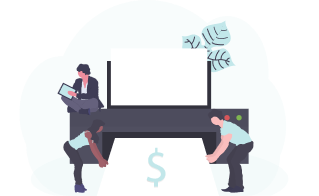
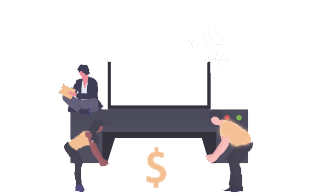
continuacion de cambios de colores y assets

diff --git a/lib/config/theme/custom_theme_extension.dart b/lib/config/theme/custom_theme_extension.dart
@@ -10,47 +10,45 @@ extension ExtendTheme on BuildContext {
 
 class CustomThemeExtension extends ThemeExtension<CustomThemeExtension> {
   final Color? backgroundColor;
+  final Color? primaryColor;
   final Color? backgroundActiveBullet;
-  final Color? textColor;
-  final Color? textSecondary;
+  final Color? textBase;
   final Color? textGray;
   final Color? textError;
 
   const CustomThemeExtension({
     this.backgroundColor,
+    this.primaryColor,
     this.backgroundActiveBullet,
-    this.textColor,
-    this.textSecondary,
+    this.textBase,
     this.textGray,
     this.textError,
   });
 
   static const lightMode = CustomThemeExtension(
     backgroundColor: Coolors.light,
-    backgroundActiveBullet: Coolors.accent,
-    textColor: Coolors.dark,
-    textSecondary: Coolors.primary,
+    backgroundActiveBullet: Coolors.dark,
+    primaryColor: Coolors.primary,
+    textBase: Coolors.dark,
     textGray: Coolors.gray,
     textError: Coolors.danger,
   );
 
   static const darkMode = CustomThemeExtension(
     backgroundColor: Coolors.dark,
-    backgroundActiveBullet: Coolors.accent,
-    textColor: Colors.white,
-    textSecondary: Coolors.light,
+    backgroundActiveBullet: Colors.white,
+    primaryColor: Coolors.light,
+    textBase: Colors.white,
     textGray: Coolors.light,
     textError: Coolors.danger,
   );
 
   @override
   ThemeExtension<CustomThemeExtension> copyWith({
-    Color? primaryColor,
-    Color? accentColor,
     Color? backgroundColor,
     Color? backgroundActiveBullet,
-    Color? textColor,
-    Color? textSecondary,
+    Color? primaryColor,
+    Color? textBase,
     Color? textGray,
     Color? textError,
   }) {
@@ -58,8 +56,8 @@ class CustomThemeExtension extends ThemeExtension<CustomThemeExtension> {
       backgroundColor: backgroundColor ?? this.backgroundColor,
       backgroundActiveBullet:
           backgroundActiveBullet ?? this.backgroundActiveBullet,
-      textColor: textColor ?? this.textColor,
-      textSecondary: textColor ?? this.textSecondary,
+      primaryColor: primaryColor ?? this.primaryColor,
+      textBase: textBase ?? this.textBase,
       textGray: textGray ?? this.textGray,
       textError: textError ?? this.textError,
     );
@@ -79,8 +77,8 @@ class CustomThemeExtension extends ThemeExtension<CustomThemeExtension> {
         other.backgroundActiveBullet,
         t,
       ),
-      textColor: Color.lerp(textColor, other.textColor, t),
-      textSecondary: Color.lerp(textSecondary, other.textSecondary, t),
+      primaryColor: Color.lerp(primaryColor, other.primaryColor, t),
+      textBase: Color.lerp(textBase, other.textBase, t),
       textGray: Color.lerp(textGray, other.textGray, t),
       textError: Color.lerp(textError, other.textError, t),
     );

diff --git a/lib/presentation/views/auth/sign_in/sign_in_view.dart b/lib/presentation/views/auth/sign_in/sign_in_view.dart
@@ -38,6 +38,9 @@ class SignInView extends StatelessWidget {
                   const Spacer(),
                   SvgPicture.asset(
                     'assets/images/cuentas-app-iso.svg',
+                    height: 70,
+                    fit: BoxFit.cover,
+                    color: context.theme.primaryColor,
                   ),
                   const SizedBox(height: minSpacing),
                   DefaultTextStyle(
@@ -54,9 +57,9 @@ class SignInView extends StatelessWidget {
                   ),
                   const Spacer(),
                   const FormSignInWidget(),
-                  const SizedBox(height: maxSpacing),
+                  const SizedBox(height: 24),
                   _textOtherOptionSignInWidget(textTheme, context),
-                  const SizedBox(height: maxSpacing),
+                  const SizedBox(height: 24),
                   _optionsSocialSignInWidget,
                   const Spacer(),
                   _createAccountWidget(context, textTheme)
@@ -93,6 +96,12 @@ class SignInView extends StatelessWidget {
           ButtonSocialWidget(
             type: TypeButtonSocial.google,
           ),
+          ButtonSocialWidget(
+            type: TypeButtonSocial.facebook,
+          ),
+          ButtonSocialWidget(
+            type: TypeButtonSocial.twitter,
+          ),
         ],
       );
 
@@ -127,12 +136,11 @@ class SignInView extends StatelessWidget {
         textLink: 'Crear cuenta',
         prefixText: '¿Aún no tienes una cuenta?\n',
         textLinkStyle: textTheme.bodyLarge!.copyWith(
-          color: context.theme.backgroundActiveBullet,
+          color: Coolors.accent,
           fontWeight: FontWeight.w600,
         ),
-        textComplmentStyle: textTheme.bodyLarge!.copyWith(
-          color: context.theme.textSecondary,
-          fontWeight: FontWeight.w600,
+        textComplementStyle: textTheme.bodyLarge!.copyWith(
+          color: context.theme.textBase,
         ),
         textAlign: TextAlign.center,
       ),

diff --git a/lib/common/widgets/input_custom/input_custom_widget_widget.dart b/lib/common/widgets/input_custom/input_custom_widget_widget.dart
@@ -64,26 +64,28 @@ class InputCustomWidget extends StatelessWidget {
 
   InputDecoration _decorationInput(BuildContext context) {
     return InputDecoration(
-      focusColor: context.theme.textColor,
+      focusColor: context.theme.textBase,
       prefixIcon: prefixIcon != null ? _iconInput(prefixIcon!, context) : null,
       suffixIcon: suffixIcon != null ? _iconInput(suffixIcon!, context) : null,
       labelText: labelText.toUpperCase(),
       labelStyle: TextStyleTheme.inputLabel.copyWith(
-        color: context.theme.textSecondary,
+        color: context.theme.textBase,
       ),
       errorStyle: TextStyleTheme.inputLabel.copyWith(
         color: context.theme.textError,
       ),
       hintText: hintText,
       hintMaxLines: 1,
-      hintStyle: TextStyleTheme.bodyHintText,
+      hintStyle: TextStyleTheme.bodyHintText.copyWith(
+        color: context.theme.textBase,
+      ),
       helperText: helperText,
       helperMaxLines: 1,
       helperStyle: TextStyleTheme.bodySmall,
       filled: false,
       contentPadding: const EdgeInsets.all(0),
       focusedBorder: const UnderlineInputBorder(
-        borderSide: BorderSide(color: Coolors.primary, width: 0.5),
+        borderSide: BorderSide(color: Coolors.accent, width: 1),
       ),
       focusedErrorBorder: UnderlineInputBorder(
         borderSide: BorderSide(
@@ -99,7 +101,7 @@ class InputCustomWidget extends StatelessWidget {
       ),
       enabledBorder: UnderlineInputBorder(
         borderSide: BorderSide(
-          color: context.theme.textColor!,
+          color: context.theme.textBase!,
           width: 0.5,
         ),
       ),
@@ -112,7 +114,7 @@ class InputCustomWidget extends StatelessWidget {
   Icon _iconInput(IconData icon, BuildContext context) {
     return Icon(
       icon,
-      color: context.theme.textGray,
+      color: context.theme.textBase,
       size: 22,
     );
   }

diff --git a/lib/presentation/widgets/auth/button_social_widget.dart b/lib/presentation/widgets/auth/button_social_widget.dart
@@ -5,11 +5,19 @@ import 'package:flutter_svg/svg.dart';
 enum TypeButtonSocial {
   google(
     icon: 'assets/icons/google-icon.svg',
-    defaultSpace: 10,
+    defaultSpace: 6,
+  ),
+  facebook(
+    icon: 'assets/icons/facebook-icon.svg',
+    defaultSpace: 4,
   ),
   apple(
     icon: 'assets/icons/apple-icon.svg',
-    defaultSpace: 10,
+    defaultSpace: 6,
+  ),
+  twitter(
+    icon: 'assets/icons/x-icon.svg',
+    defaultSpace: 6,
   );
 
   final String icon;
@@ -26,16 +34,16 @@ class ButtonSocialWidget extends StatelessWidget {
   @override
   Widget build(BuildContext context) {
     return Container(
-      width: 50,
-      height: 50,
+      width: 44,
+      height: 44,
       padding: EdgeInsets.all(type.defaultSpace),
-      decoration: const BoxDecoration(
+      decoration: BoxDecoration(
         color: Colors.white,
-        borderRadius: BorderRadius.all(Radius.circular(8)),
+        borderRadius: const BorderRadius.all(Radius.circular(8)),
         border: Border.fromBorderSide(
           BorderSide(
-            color: Coolors.gray,
-            width: 1.5,
+            color: Coolors.gray.withOpacity(0.5),
+            width: 1,
           ),
         ),
       ),

diff --git a/lib/common/widgets/button_app/text_link_widget.dart b/lib/common/widgets/button_app/text_link_widget.dart
@@ -7,7 +7,7 @@ class TextLinkWidget extends StatelessWidget {
   final String sufixText;
   final TextAlign? textAlign;
   final TextStyle? textLinkStyle;
-  final TextStyle? textComplmentStyle;
+  final TextStyle? textComplementStyle;
 
   const TextLinkWidget(
       {super.key,
@@ -16,7 +16,7 @@ class TextLinkWidget extends StatelessWidget {
       this.prefixText = '',
       this.sufixText = '',
       this.textLinkStyle,
-      this.textComplmentStyle,
+      this.textComplementStyle,
       this.textAlign});
 
   @override
@@ -40,7 +40,7 @@ class TextLinkWidget extends StatelessWidget {
           ),
         ],
       ),
-      style: textComplmentStyle,
+      style: textComplementStyle,
     );
   }
 }

diff --git a/lib/config/theme/light_theme.dart b/lib/config/theme/light_theme.dart
@@ -8,7 +8,7 @@ ThemeData lightTheme() {
   final ThemeData base = ThemeData.dark();
 
   return base.copyWith(
-    scaffoldBackgroundColor: Colors.white,
+    scaffoldBackgroundColor: Coolors.light,
     extensions: [CustomThemeExtension.lightMode],
     appBarTheme: AppBarTheme(
       surfaceTintColor: Colors.transparent,
@@ -82,9 +82,9 @@ ThemeData lightTheme() {
       ),
     ),
     textSelectionTheme: const TextSelectionThemeData(
-      cursorColor: Coolors.primary,
-      selectionColor: Coolors.primary,
-      selectionHandleColor: Coolors.primary,
+      cursorColor: Coolors.accent,
+      selectionColor: Coolors.accent,
+      selectionHandleColor: Coolors.accent,
     ),
   );
 }

diff --git a/lib/presentation/views/splashscreen/splascreen_view.dart b/lib/presentation/views/splashscreen/splascreen_view.dart
@@ -1,4 +1,3 @@
-import 'package:cuentas_app/config/theme/coolors.dart';
 import 'package:flutter/material.dart';
 import 'package:go_router/go_router.dart';
 import 'package:rive/rive.dart';
@@ -13,14 +12,13 @@ class SplashscreenView extends StatelessWidget {
     redirectTo(context);
 
     return const Scaffold(
-      backgroundColor: Coolors.dark,
       body: SafeArea(
         child: Center(
           child: SizedBox(
             width: 160,
             height: 120,
             child: RiveAnimation.asset(
-              'assets/animations/logo-animated-light.riv',
+              'assets/animations/logo-animated.riv',
               fit: BoxFit.contain,
             ),
           ),

diff --git a/lib/common/widgets/ui_divisions/text_section_widget.dart b/lib/common/widgets/ui_divisions/text_section_widget.dart
@@ -35,7 +35,7 @@ class TextSection extends StatelessWidget {
           Text(
             headline1,
             style: themeText.titleLarge!.copyWith(
-              color: context.theme.textColor,
+              color: context.theme.textBase,
               fontSize: healineLarge,
             ),
           ),
@@ -43,7 +43,7 @@ class TextSection extends StatelessWidget {
           Text(
             headline2,
             style: themeText.titleMedium!.copyWith(
-              color: context.theme.textColor,
+              color: context.theme.textBase,
               fontSize: healineMedium,
             ),
           ),

diff --git a/lib/presentation/widgets/auth/form_sign_in_widget.dart b/lib/presentation/widgets/auth/form_sign_in_widget.dart
@@ -50,10 +50,9 @@ class _FormSignInState extends State<FormSignInWidget> {
           Align(
             alignment: Alignment.centerRight,
             child: TextLinkWidget(
-              textLink: 'Olvidaste tu contraseña?',
+              textLink: '¿Olvidaste tu contraseña?',
               textLinkStyle: Theme.of(context).textTheme.bodyMedium!.copyWith(
                     color: context.theme.backgroundActiveBullet,
-                    fontWeight: FontWeight.w600,
                   ),
               onPressed: () {
                 _onShowModalBottomSheet(context);

diff --git a/lib/config/theme/dark_theme.dart b/lib/config/theme/dark_theme.dart
@@ -85,9 +85,9 @@ ThemeData darkTheme() {
       ),
     ),
     textSelectionTheme: const TextSelectionThemeData(
-      cursorColor: Coolors.primary,
-      selectionColor: Coolors.gray,
-      selectionHandleColor: Coolors.primary,
+      cursorColor: Coolors.accent,
+      selectionColor: Coolors.accent,
+      selectionHandleColor: Coolors.accent,
     ),
   );
 }

diff --git a/lib/common/widgets/total_transaction_item/total_transaction_tem_widget.dart b/lib/common/widgets/total_transaction_item/total_transaction_tem_widget.dart
@@ -38,7 +38,7 @@ class TotalTransactionItemWidget extends StatelessWidget {
       child: Text(
         formatter.format(total),
         style: TextStyleTheme.titleSmall.copyWith(
-          color: context.theme.textColor,
+          color: context.theme.textBase,
           fontWeight: FontWeight.w600,
         ),
       ),

diff --git a/lib/common/widgets/ui_notifications/ui_notifications_widget.dart b/lib/common/widgets/ui_notifications/ui_notifications_widget.dart
@@ -27,7 +27,7 @@ void showModalBottomSheetCustom({
                   icon: Icon(
                     Icons.close,
                     size: 32,
-                    color: context.theme.textColor,
+                    color: context.theme.textBase,
                   ),
                 ),
               ),
